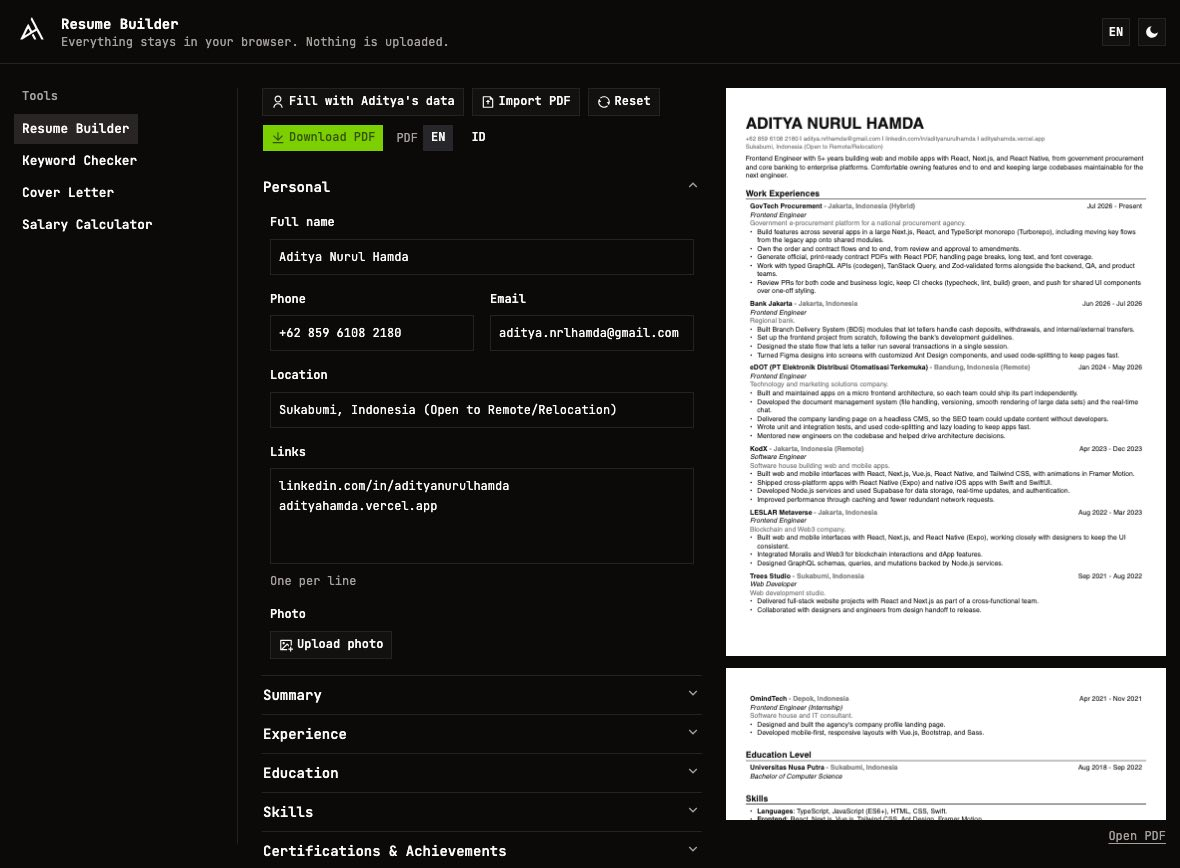
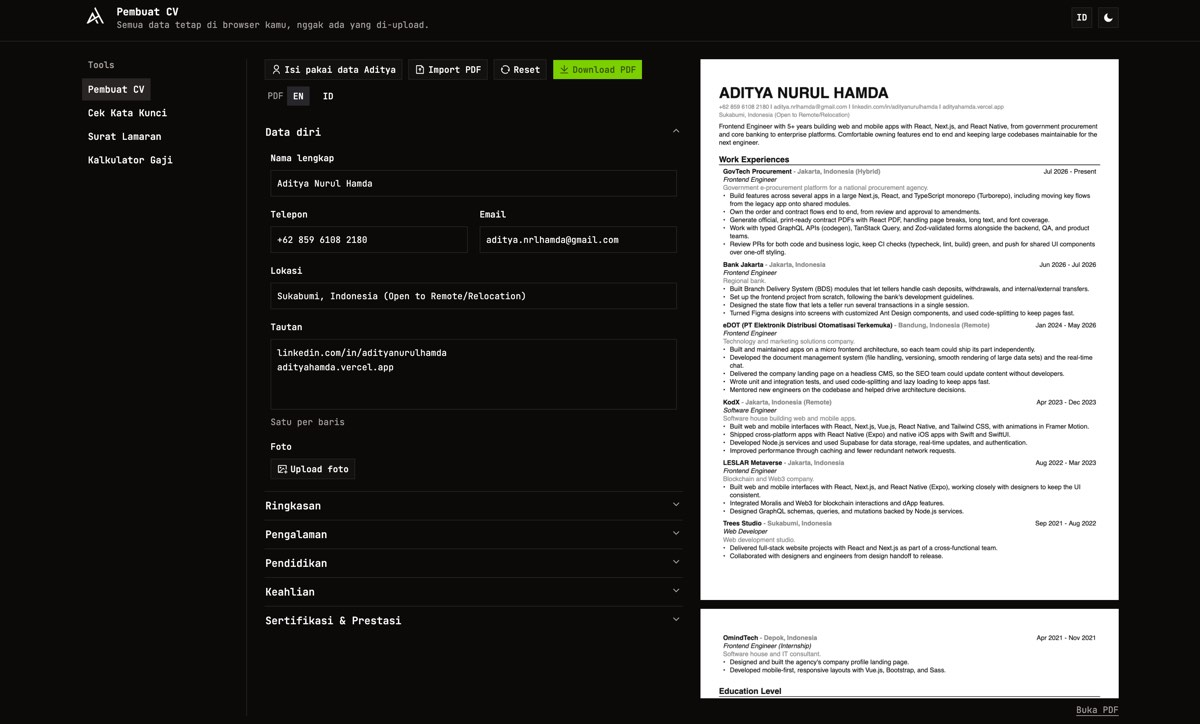
chore(projects): use the 1200x724 resume builder screenshot
Same size as the other project images, so its card no longer stands taller
than the rest.

diff --git a/src/sections/projects.tsx b/src/sections/projects.tsx
@@ -44,7 +44,7 @@ const PROJECTS = [
     alter: { en: 'Free Job Search Tool', id: 'Tool Cari Kerja Gratis' },
     category: 'Web',
     image: resumeBuilder,
-    imageSize: [1180, 868],
+    imageSize: [1200, 724],
     description: {
       en: 'A free resume builder for job seekers, with a live PDF preview and nothing uploaded anywhere. The PDF you download carries the form data inside it, so importing it later fills the form back in: no account, no server. The PDF library loads only on the tool pages, so the portfolio stays light.',
       id: 'Pembuat CV gratis buat yang lagi cari kerja, dengan preview PDF live dan nggak ada data yang di-upload ke mana pun. PDF yang di-download nyimpen isi form di dalamnya, jadi tinggal import lagi buat lanjut edit: tanpa akun, tanpa server. Library PDF-nya cuma dimuat di halaman tools, jadi portfolio-nya tetap ringan.',
